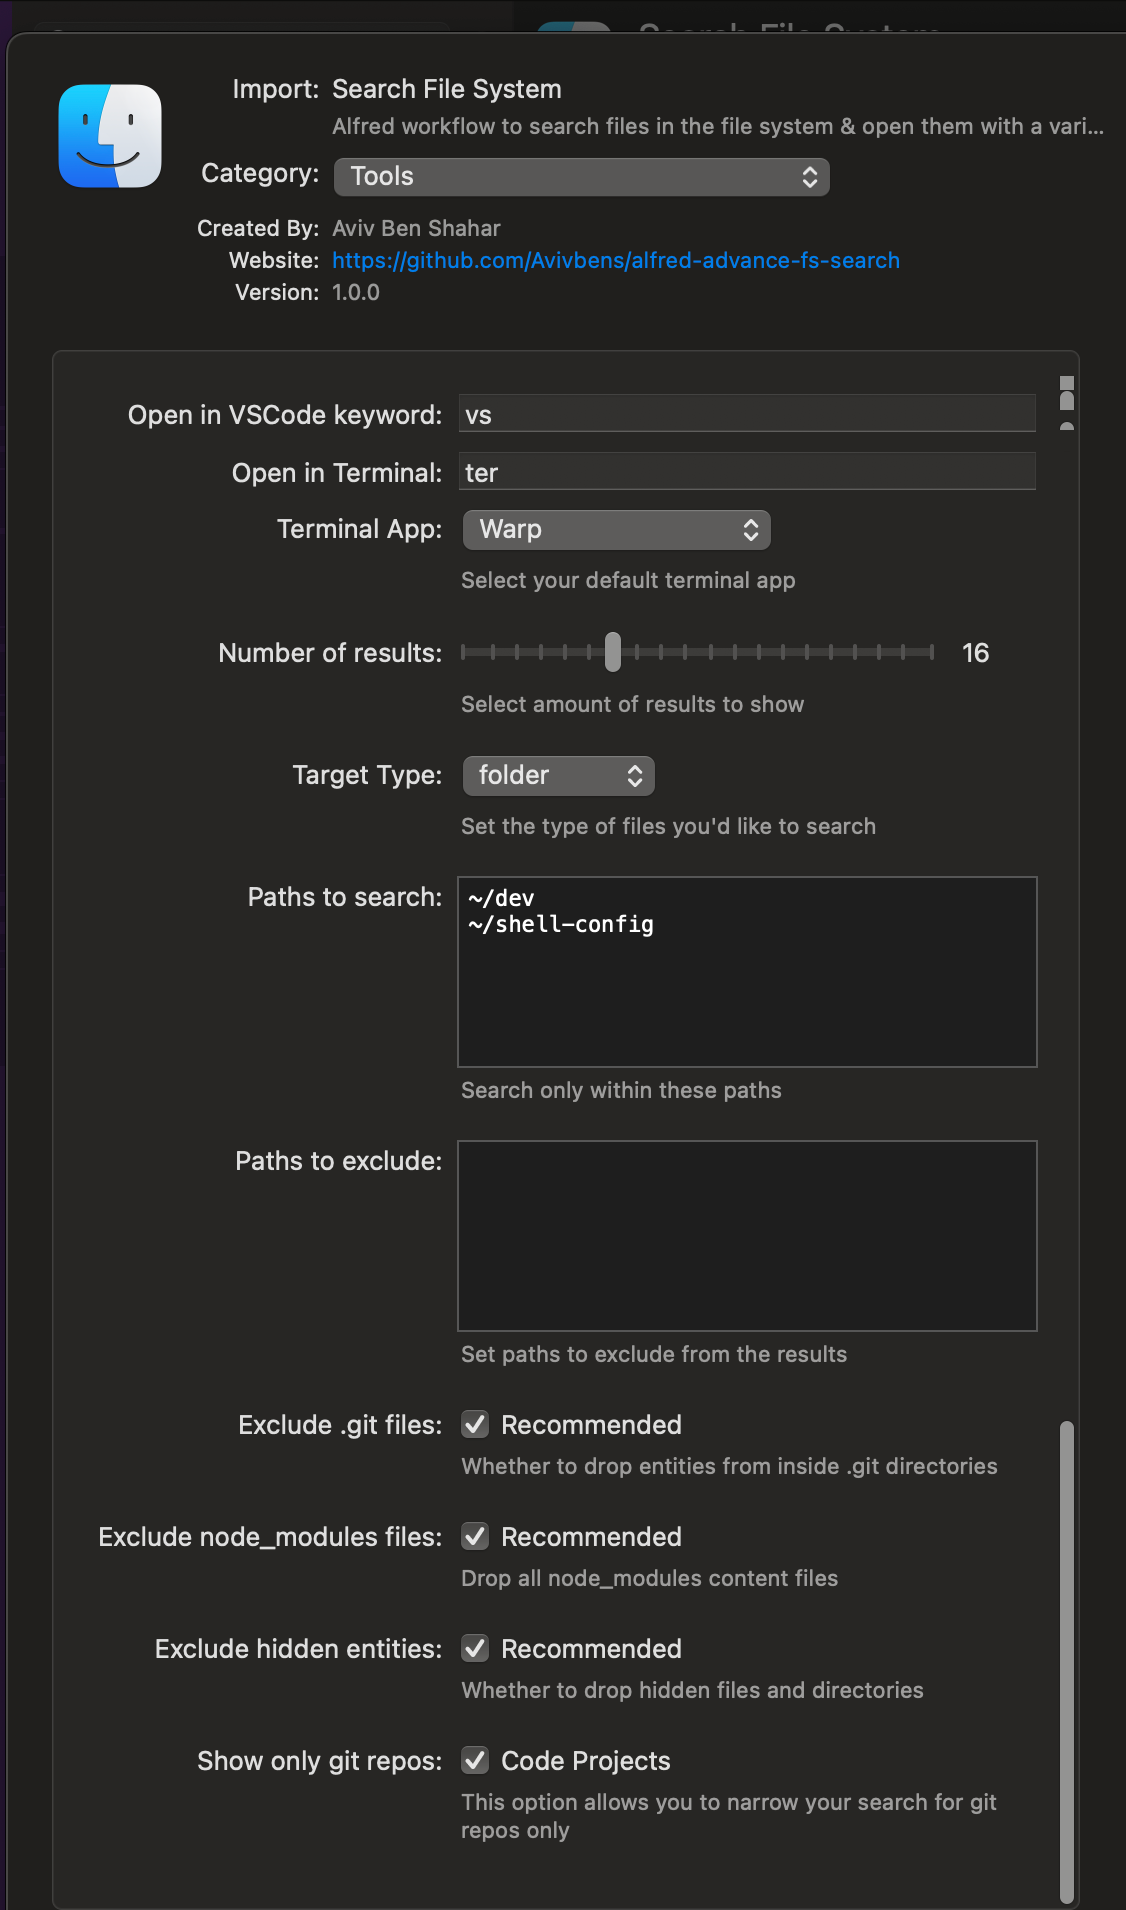
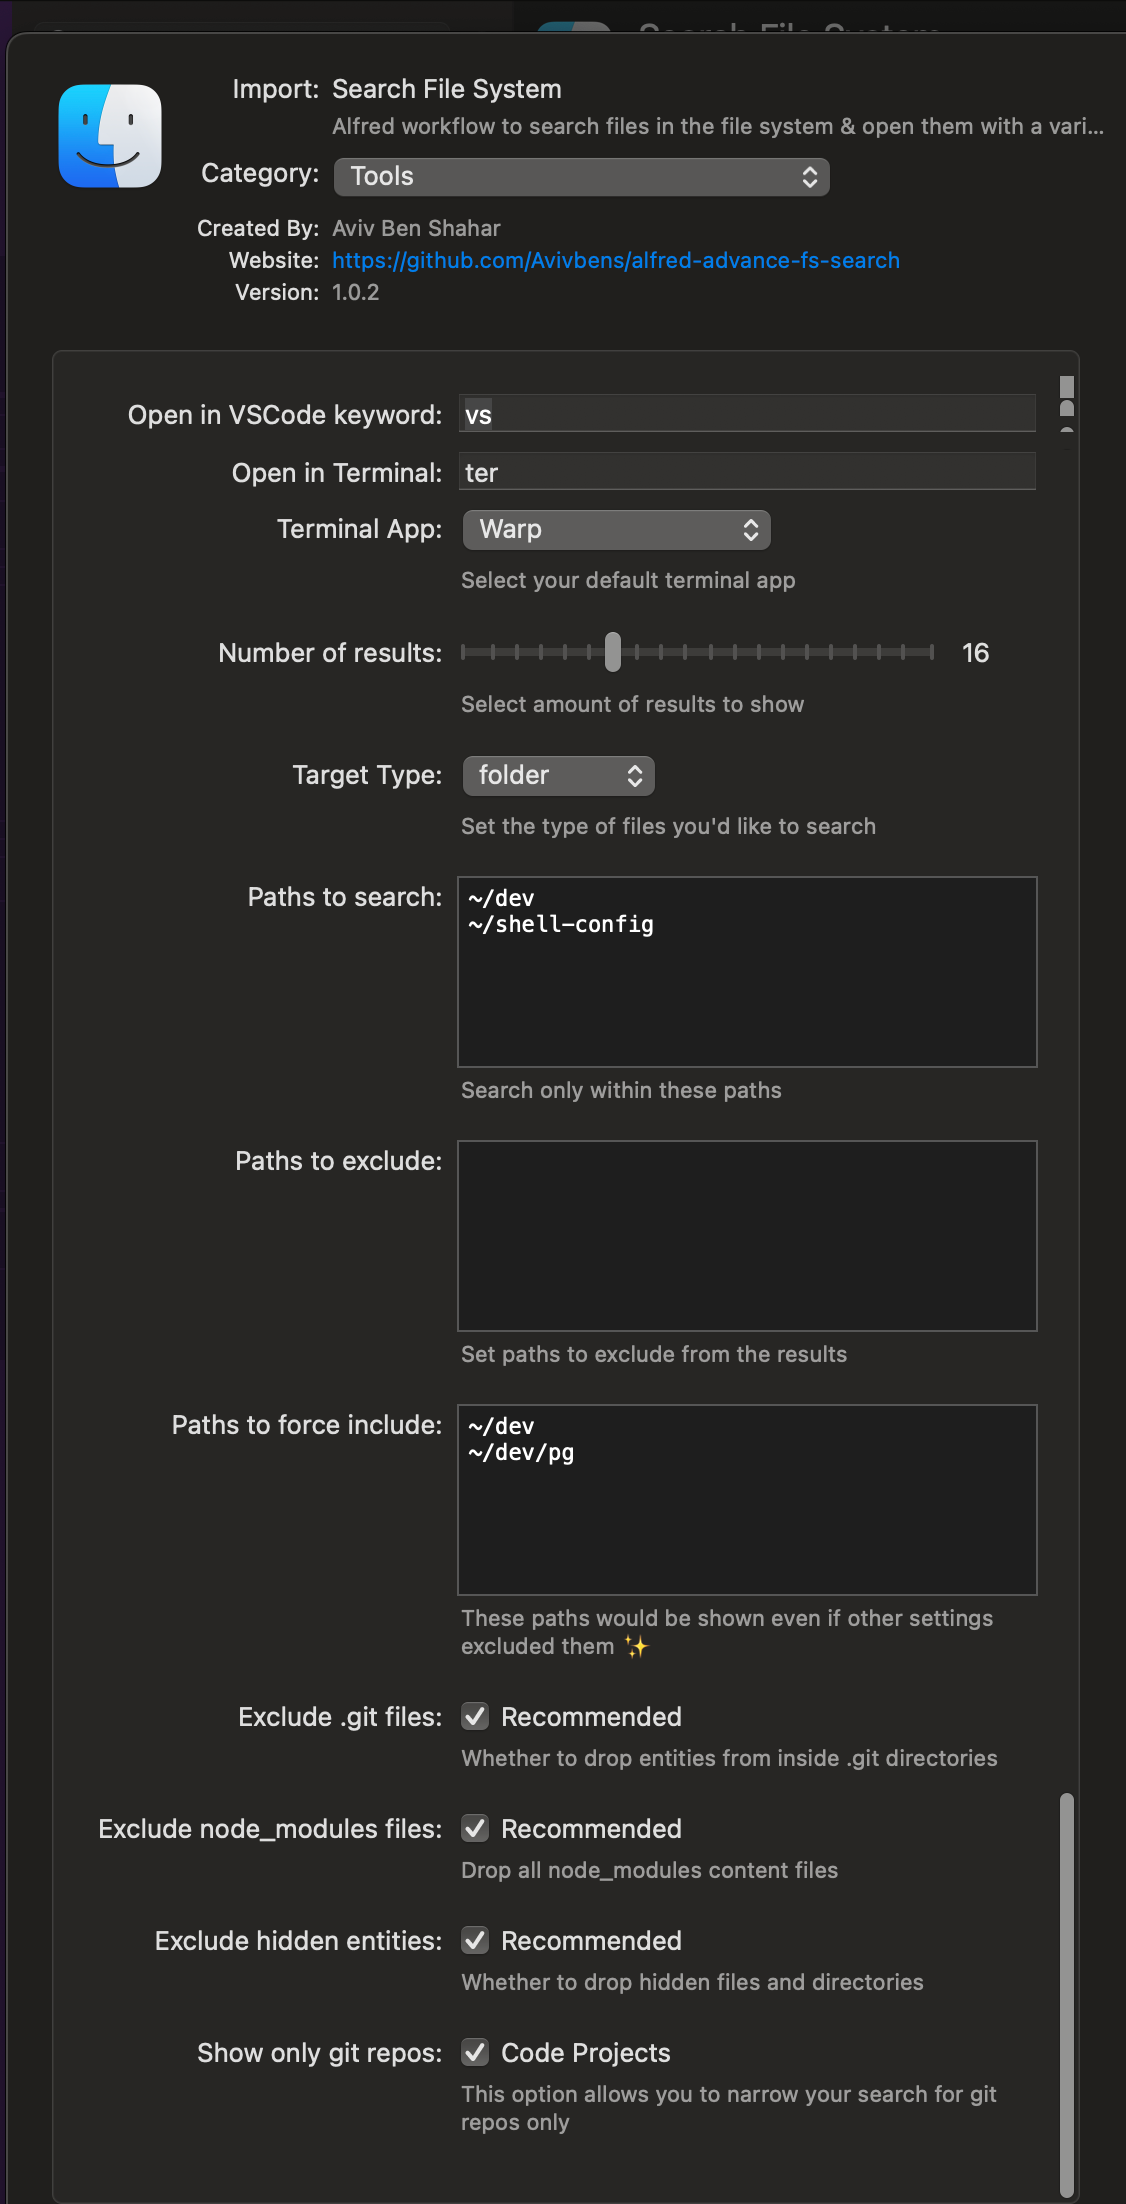
feat: support `forceInclude` option to force include paths 🚀

diff --git a/src/services/search.service.ts b/src/services/search.service.ts
@@ -5,12 +5,34 @@ import type { FileSearch } from '@models/file-search.model'
 import type { SearchOptions } from '@models/search-options.model'
 
 export async function searchInFileSystem(options: SearchOptions): Promise<FileSearch[]> {
-    const { name, type, excludeGit, excludeHidden, excludeNodeModules, excludePaths, onlyIn, gitReposOnly } = options
-    const filteredRootPaths =
-        onlyIn?.filter((path) => {
-            const entityName = basename(path)
-            return entityName.includes(name)
-        }) ?? []
+    const {
+        name,
+        type,
+        excludeGit,
+        excludeHidden,
+        excludeNodeModules,
+        excludePaths,
+        onlyIn,
+        forceInclude,
+        gitReposOnly,
+    } = options
+
+    const forceIncludeMap = new Set(forceInclude ?? [])
+
+    /**
+     * Handle the case when we need to search only in the root paths and force include some paths
+     */
+    const filterFunction = (path: string) => {
+        const entityName = basename(path)
+        return entityName.includes(name)
+    }
+
+    const filteredForced = forceInclude?.filter(filterFunction) ?? []
+    const filteredRootPaths = onlyIn?.filter(filterFunction) ?? []
+
+    /**
+     * -------------------------------
+     */
 
     const kind = type === 'file' ? 'kind:file' : type === 'folder' ? 'kind:folder' : ''
     const onlyInStr = onlyIn?.map((path) => `-onlyin ${path}`).join(' ')
@@ -18,9 +40,17 @@ export async function searchInFileSystem(options: SearchOptions): Promise<FileSe
     const query = `mdfind ${kind} -name "${name}" ${onlyInStr ?? ''}`
     const { stdout } = await execPromise(query)
 
-    const parsedQueryRes = stdout.split('\n').filter(Boolean).concat(filteredRootPaths)
+    const parsedQueryRes = stdout.split('\n').filter(Boolean)
+    const uniqueParsedQueryRes = Array.from(new Set([...filteredForced, ...filteredRootPaths, ...parsedQueryRes]))
 
-    const filtered = parsedQueryRes.filter((path) => {
+    const filtered = uniqueParsedQueryRes.filter((path) => {
+        /**
+         * Force include the path even if it's bypassing exclude settings
+         */
+        if (forceIncludeMap.has(path)) {
+            return true
+        }
+
         const isExcluded = excludePaths?.some((excludePath) => new RegExp(excludePath).test(path))
         if (isExcluded) {
             return false
@@ -61,6 +91,13 @@ export async function searchInFileSystem(options: SearchOptions): Promise<FileSe
      * Handle the case when we need to search only in git repositories
      */
     const gitResPrm = res.map(async ({ path, type }) => {
+        /**
+         * Force include the path even if it's bypassing the git check
+         */
+        if (forceIncludeMap.has(path)) {
+            return { path, type }
+        }
+
         if (type === 'file') {
             return null
         }

diff --git a/src/main/find-in-fs.ts b/src/main/find-in-fs.ts
@@ -26,6 +26,10 @@ import { searchInFileSystem } from '@services/search.service'
         defaultValue: [],
         parser: pathsParser,
     })
+    const forceInclude = alfredClient.env.getEnv(Variables.FORCE_INCLUDE, {
+        defaultValue: [],
+        parser: pathsParser,
+    })
     const excludePaths = alfredClient.env.getEnv(Variables.EXCLUDE_PATHS, {
         defaultValue: [],
         parser: pathsParser,
@@ -54,6 +58,7 @@ import { searchInFileSystem } from '@services/search.service'
         name: input,
         type: targetType,
         onlyIn,
+        forceInclude,
         excludePaths,
         /*  */
         excludeGit,

diff --git a/src/models/search-options.model.ts b/src/models/search-options.model.ts
@@ -19,6 +19,12 @@ export interface SearchOptions {
 
     /**
      * @description
+     * The paths to force include in the search results
+     */
+    forceInclude?: string[]
+
+    /**
+     * @description
      * The paths to exclude from the search
      */
     excludePaths?: (string | RegExp)[]

diff --git a/src/common/variables.ts b/src/common/variables.ts
@@ -2,6 +2,7 @@ export enum Variables {
     SLICE_AMOUNT = 'slice_amount',
     TARGET_TYPE = 'target_type',
     ONLY_IN = 'only_in',
+    FORCE_INCLUDE = 'force_include',
     EXCLUDE_GIT = 'exclude_git',
     EXCLUDE_HIDDEN = 'exclude_hidden',
     GIT_REPOS_ONLY = 'git_repos_only',
